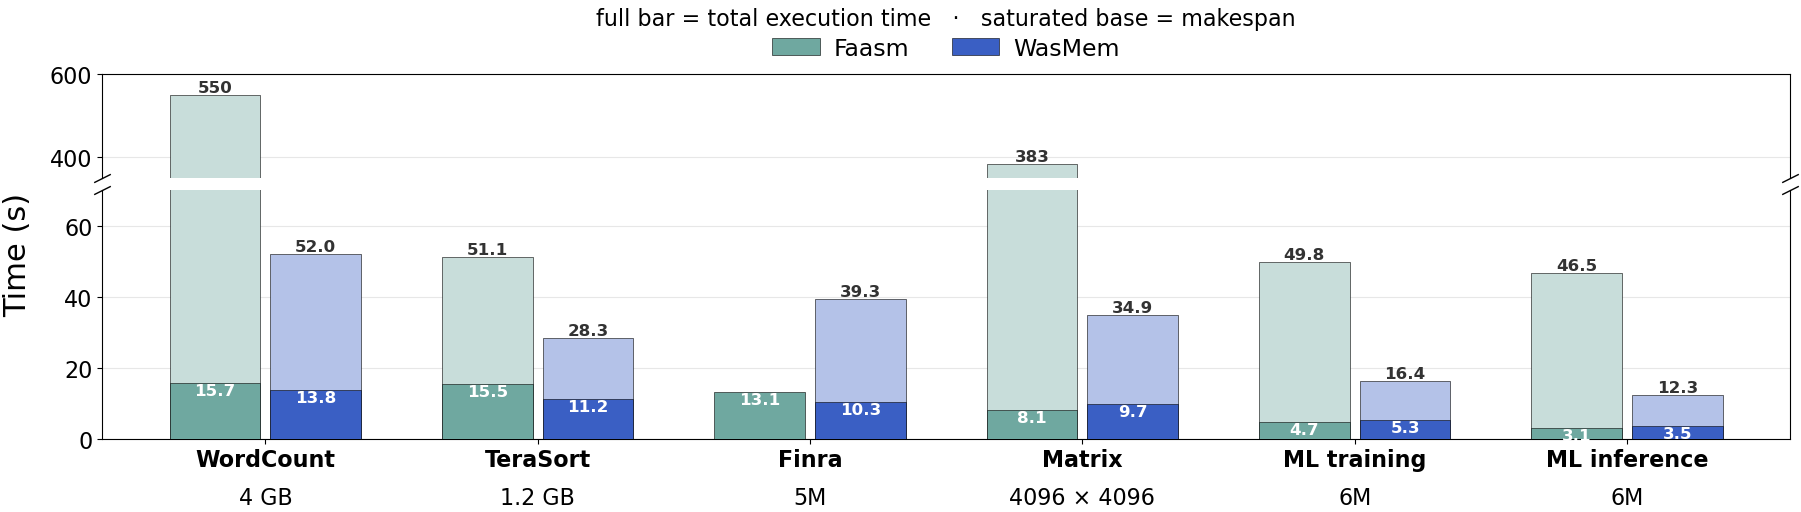
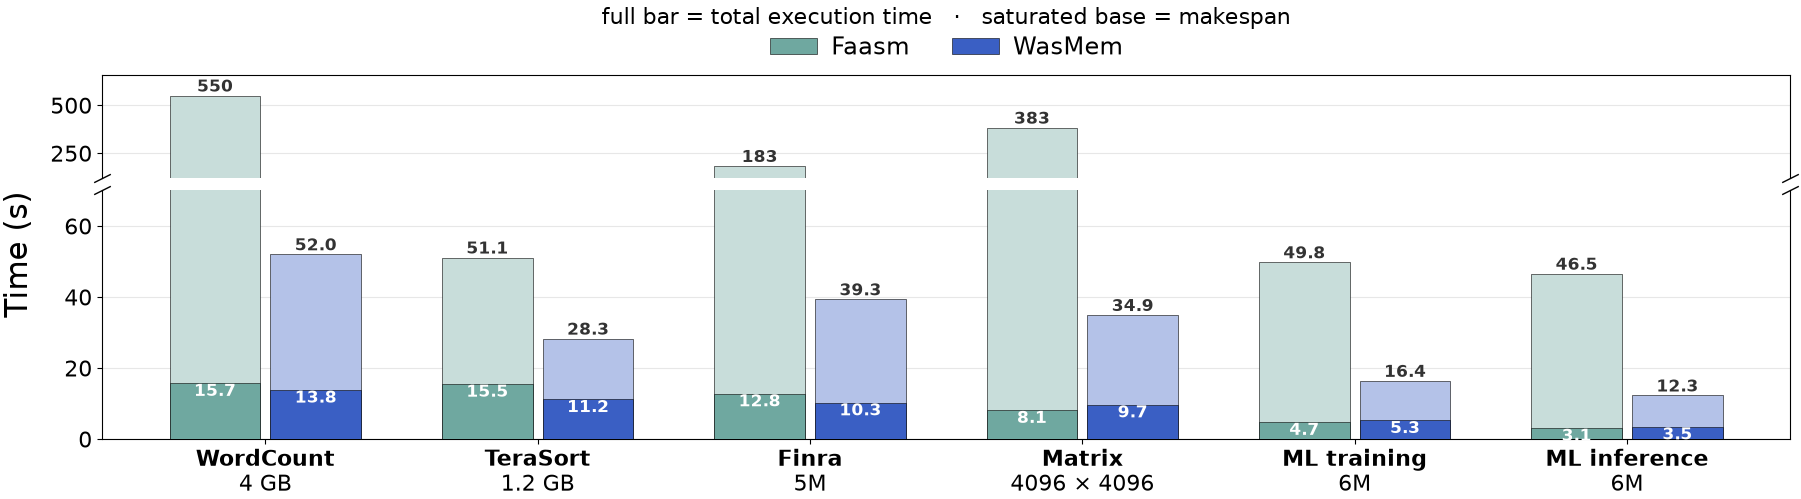
fixing the Finra for faasm

diff --git a/Tests/Inter-Node Application_Benchmark/faasm/run_finra.py b/Tests/Inter-Node Application_Benchmark/faasm/run_finra.py
@@ -92,11 +92,12 @@ def main():
     new = not os.path.exists(args.csv)
     fcsv = open(args.csv, "a")
     if new:
-        fcsv.write("trades,fanout,nodes_used,makespan_mean_ms,makespan_std_ms,violations,expect,success,reps\n")
+        fcsv.write("trades,fanout,nodes_used,makespan_mean_ms,makespan_std_ms,total_job_mean_ms,"
+                   "violations,expect,success,reps\n")
 
     print(f"[finra] trades={n_trades} fanout={args.fanout} shards/rule={S} workers={n_workers} "
           f"(5 stateless×{S} + 3 stateful) nodes={len(nodes)} reps={args.reps}")
-    ms_list, viol_seen, ok_all = [], None, True
+    ms_list, job_list, viol_seen, ok_all = [], [], None, True
     for rep in range(1, args.reps + 1):
         uid = uuid.uuid4().hex
         r.flushdb()                                  # cold Redis — no warm state across reps (untimed)
@@ -118,7 +119,7 @@ def main():
                           "cmd": ["python3", wrap, module, f"{uid}_trades",
                                   f"{uid}_count_{rule}_full", "--", str(rule)], "env": fenv})
 
-        _, ok, _ = fl.run_faaslets(specs, port, t0=t0)
+        _, ok, per = fl.run_faaslets(specs, port, t0=t0)
         total = 0                                    # sum every partial (stateless shards + stateful full)
         for rule in FINRA_STATELESS:
             for s in range(S):
@@ -126,20 +127,26 @@ def main():
         for rule in FINRA_STATEFUL:
             total += int((r.get(f"{uid}_count_{rule}_full") or b"0").strip() or 0)
         makespan = int((time.time() - t0) * 1000)    # clock stops after the aggregate (mirrors WasMem reduce)
+        job_ms = sum(per.values())                   # aggregate per-node Faaslet execution time (cluster compute)
 
         gate = args.expect if args.expect is not None else (viol_seen if viol_seen is not None else total)
         viol_seen = total
         success = ok and total == gate
         ok_all = ok_all and success
         ms_list.append(makespan)
-        print(f"[finra] rep {rep}: makespan={makespan}ms violations={total} gate={gate} ok={success}")
+        job_list.append(job_ms)
+        print(f"[finra] rep {rep}: makespan={makespan}ms total_job={job_ms}ms "
+              f"violations={total} gate={gate} ok={success}")
 
     mean_ms, std_ms = fl.mean_std(ms_list)
     mean_ms, std_ms = int(mean_ms), round(std_ms, 1)
+    job_mean = int(sum(job_list) / len(job_list))
     gate = args.expect if args.expect is not None else viol_seen
-    fcsv.write(f"{n_trades},{n_workers},{len(nodes)},{mean_ms},{std_ms},{viol_seen},{gate},{ok_all},{args.reps}\n")
+    fcsv.write(f"{n_trades},{n_workers},{len(nodes)},{mean_ms},{std_ms},{job_mean},"
+               f"{viol_seen},{gate},{ok_all},{args.reps}\n")
     fcsv.close()
-    print(f"[finra] mean makespan={mean_ms}±{std_ms}ms violations={viol_seen} success={ok_all} → {args.csv}")
+    print(f"[finra] mean makespan={mean_ms}±{std_ms}ms total_job={job_mean}ms "
+          f"violations={viol_seen} success={ok_all} → {args.csv}")
     print(f"RESULT viol={viol_seen} makespan_ms={mean_ms} std={std_ms} success={ok_all}")
     sys.exit(0 if ok_all else 1)
 

diff --git a/Tests/Inter-Node Application_Benchmark/analysis/plot_inter_bars.py b/Tests/Inter-Node Application_Benchmark/analysis/plot_inter_bars.py
@@ -12,9 +12,9 @@ makespan (end-to-end latency). An error bar (makespan_std) sits on the makespan
 base; the total-exec value is printed on top, the makespan value inside the base.
 
 The total-exec spread is ~12s..550s with a big empty gap (everything <= 52s
-except Faasm WordCount=550s and Matrix=383s), so instead of a log axis we use a
-two-level broken (split) linear y-axis: a lower band (0..70s) for the detail and
-an upper band (350..600s) for the two tall Faasm bars.
+except the three tall Faasm bars: WordCount=550s, Matrix=383s, Finra=183s), so
+instead of a log axis we use a two-level broken (split) linear y-axis: a lower
+band (0..70s) for the detail and an upper band (120..600s) for the tall bars.
 
 Reads ../wasmem/results_<wl>.csv and ../faasm/results_<wl>.csv, picks the
 LARGEST input size per workload (max reps on ties).
@@ -57,9 +57,9 @@ WORKLOADS = [
 ]
 
 # Two-level broken y-axis (seconds). Lower band holds all the detail; upper band
-# holds the two tall Faasm total-exec bars (WordCount 550, Matrix 383).
+# holds the tall Faasm total-exec bars (WordCount 550, Matrix 383, Finra 183).
 LOW_TOP = 70.0
-HIGH_BOT, HIGH_TOP = 350.0, 600.0
+HIGH_BOT, HIGH_TOP = 120.0, 660.0
 
 # font sizes matched to the intra-node bar grid (plot_bars_grid.py)
 TICK_SIZE = 16
@@ -125,7 +125,7 @@ def main():
                 continue
             x = gi + (j - (len(ORDER) - 1) / 2) * bar_w
             mk = (fnum(rec.get("makespan_mean_ms")) or 0.0) / 1000.0
-            te = fnum(rec.get("total_job_mean_ms"))   # may be absent (faasm finra)
+            te = fnum(rec.get("total_job_mean_ms"))   # total exec; None if a CSV lacks it
             te = te / 1000.0 if te is not None else None
             w = bar_w * 0.9
             base = SYS[sys]["color"]